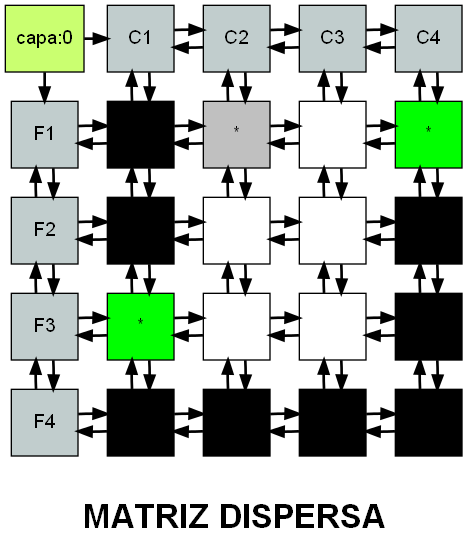
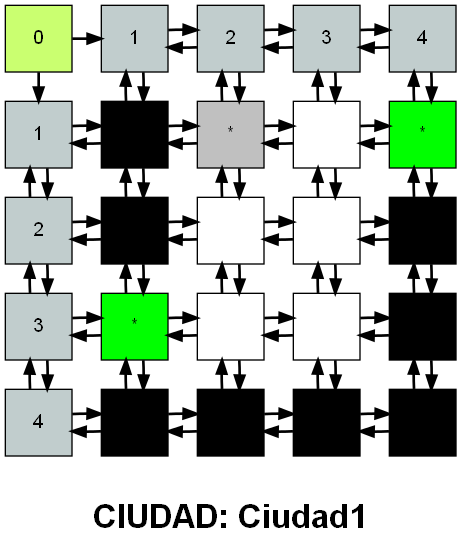
subiendo validaciones segundas

diff --git a/Entrada.py b/Entrada.py
@@ -125,9 +125,10 @@ while True:
 
     elif Eleccion == "2":
         print("************     MISIONES     ************")
-        print("1. MISION DE RESCATE")
-        print("2. MISION DE EXTRACCION DE RECURSOS")
-        print("3. SALIR")
+        print("*   1. MISION DE RESCATE                 *")
+        print("*   2. MISION DE EXTRACCION DE RECURSOS  *")
+        print("*   3. SALIR                             *")
+        print("******************************************")
         elec1 = input("SELECCIONE UNA OPCION : ")
 
 
@@ -140,19 +141,19 @@ while True:
             #dato = ListaRobots.mostrarRescue("ChapinFighter")
             #print("EL DATO QUE RECIBO ES --->"+dato)
             if ListaRobots.mostrarRescue("ChapinRescue") == "2":
-                print("\n\n\n\n\n\n*******************************")
+                print("\n\n*******************************")
                 print("ROBOTS QUE SE PUEDEN UTILIZAR : ")
                 ListaRobots.mostrarRescue("ChapinRescue")
                 print("*********************************")
             else:
-                print("NO HAY COINCIDENCIAS NO SE PUEDE REALIZAR LA MISION")
+                print("\x1b[1;33m"+"    NO HAY COINCIDENCIAS NO SE PUEDE REALIZAR LA MISION"+'\033[0;m')
                 #SI NO HAY CHAPIN RESCUE NO HAGO LAS MISIONES
 
                 #IDENTIFICAR LA CIUDAD QUE QUIERO UTILIZAR
 
 
                 #VERIFIAR SI HAY UNIDADES CIVILES EN LA CIUDAD PARA PODER REALIZARLO
-            print("salgo")
+            
 
 
         elif elec1 == "2" :
@@ -160,14 +161,14 @@ while True:
                 #VERIFIANDO SI HAY CHAPIN FIGHTER 
 
             if ListaRobots.mostrarRescue("ChapinFighter") == "2":
-                print("\n\n\n\n\n\n*******************************")
+                print("\n\n*******************************")
                 print("ROBOTS QUE SE PUEDEN UTILIZAR : ")
                 ListaRobots.mostrarRescue("ChapinFighter")
                 print("*********************************")
             else:
                 #SI NO HAY CHAPIN FIGHTER NO HAGO LAS MISIONES
 
-                print("NO HAY COINCIDENCIAS NO SE PUEDE REALIZAR LA MISION")
+                print("\x1b[1;33m"+"    NO HAY COINCIDENCIAS NO SE PUEDE REALIZAR LA MISION"+'\033[0;m')
                 
                 
         else:

diff --git a/MatrizDispersa.py b/MatrizDispersa.py
@@ -173,16 +173,16 @@ class MatrizDispersa():
         contenido = '''digraph G{
     node[shape=box, width=0.7, height=0.7, fontname="Arial", fillcolor="white", style=filled]
     edge[style = "bold"]
-    node[label = "capa:''' + str(self.capa) +'''" fillcolor="darkolivegreen1" pos = "-1,1!"]raiz;'''
+    node[label = "''' + str(self.capa) +'''" fillcolor="darkolivegreen1" pos = "-1,1!"]raiz;'''
         contenido += '''label = "{}" \nfontname="Arial Black" \nfontsize="25pt" \n
-                    \n'''.format('\nMATRIZ DISPERSA')
+                    \n'''.format('\nCIUDAD: '+nombre)
 
         # --graficar nodos CABECERA
         # --graficar nodos fila
         pivote = self.filas.primero
         posx = 0
         while pivote != None:
-            contenido += '\n\tnode[label = "F{}" fillcolor="azure3" pos="-1,-{}!" shape=box]x{};'.format(pivote.id, 
+            contenido += '\n\tnode[label = "{}" fillcolor="azure3" pos="-1,-{}!" shape=box]x{};'.format(pivote.id, 
             posx, pivote.id)
             pivote = pivote.siguiente
             posx += 1
@@ -197,7 +197,7 @@ class MatrizDispersa():
         pivotey = self.columnas.primero
         posy = 0
         while pivotey != None:
-            contenido += '\n\tnode[label = "C{}" fillcolor="azure3" pos = "{},1!" shape=box]y{};'.format(pivotey.id, 
+            contenido += '\n\tnode[label = "{}" fillcolor="azure3" pos = "{},1!" shape=box]y{};'.format(pivotey.id, 
             posy, pivotey.id)
             pivotey = pivotey.siguiente
             posy += 1
@@ -245,6 +245,8 @@ class MatrizDispersa():
                 pivote_celda = pivote_celda.derecha
             
             pivote_celda = pivote.acceso
+
+            #FLECHITAS DE LOS COSTADOS
             while pivote_celda != None:
                 if pivote_celda.derecha != None:
                     contenido += '\n\ti{}_{}->i{}_{};'.format(pivote_celda.coordenadaX, pivote_celda.coordenadaY,
@@ -259,6 +261,8 @@ class MatrizDispersa():
             posx += 1
         
         pivote = self.columnas.primero
+
+        #FLECHITAS
         while pivote != None:
             pivote_celda : Nodo_Celda = pivote.acceso
             while pivote_celda != None:
